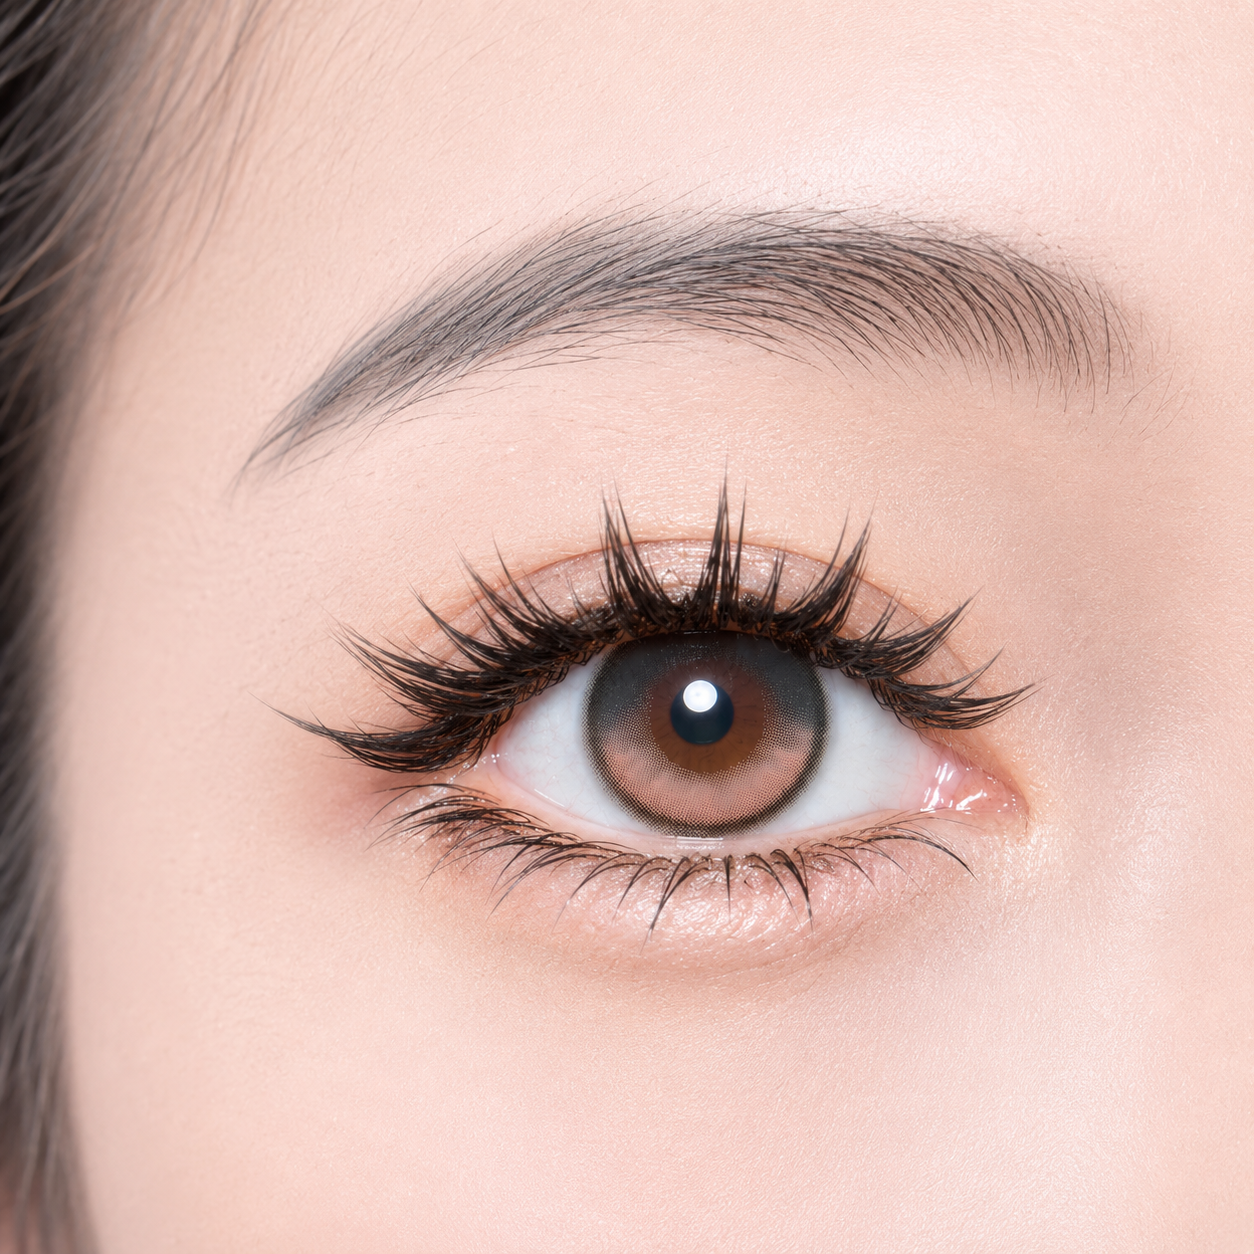
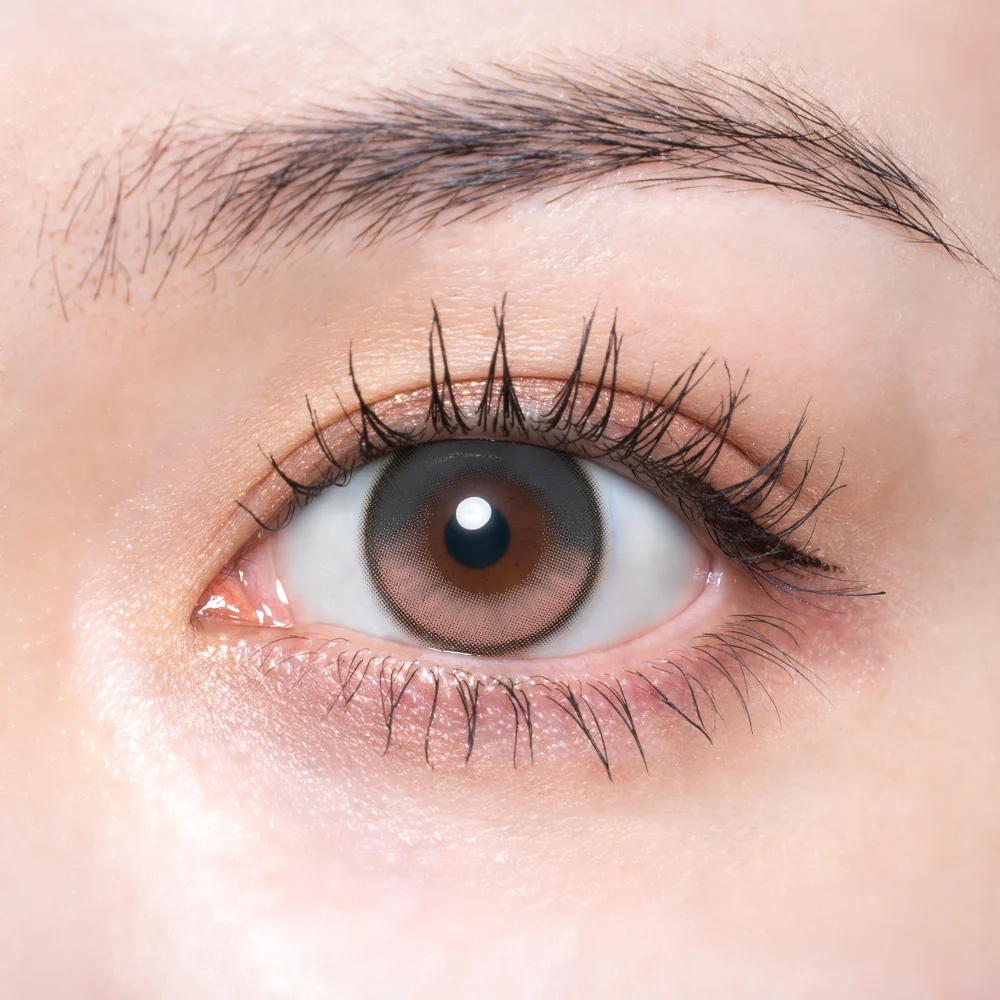
Add full product photo catalog and refine product detail modal.
Wire images for all 32 SKUs, rename Melotte Pure Poodle, and improve modal layout with grouped spec pills, larger model photo, and no scroll clipping.

diff --git a/products-data.js b/products-data.js
@@ -1,2 +1,2 @@
-const PRODUCTS = [{"id":1,"brand":"Quprié","name":"Rose Camellia","color":"pink","dia":14.5,"gdia":13.7,"axisLock":true,"price":19.99,"image":"Images/Quprie Rose Camellia no background.webp","images":["Images/Quprie Rose Camellia Model Photo.png","Images/Quprie Rose Camellia no background.webp"]},{"id":2,"brand":"Quprié","name":"Gris Onyx","color":"gray","dia":14.5,"gdia":13.7,"axisLock":true,"price":19.99,"image":"Images/Quprie Gris Onyx No Background.webp","images":["Images/Quprie Gris Onyx model picture.png","Images/Quprie Gris Onyx No Background.webp"]},{"id":3,"brand":"Primore","name":"Pri Dolly Brown","color":"brown","dia":15,"gdia":14.6,"axisLock":false,"price":19.99,"image":"Images/Primore Dolly Brown no background .png","images":["Images/Primore Dolly Brown model image.png","Images/Primore Dolly Brown no background .png"]},{"id":4,"brand":"Radiris","name":"Sweet - Mirage Bloom","color":"hazel","dia":14,"gdia":13.1,"axisLock":false,"price":19.99,"image":"Images/Radiris Sweet-Mirage Bloom no background.png","images":["Images/Radiris Sweet-Mirage Bloom model image.png","Images/Radiris Sweet-Mirage Bloom no background.png"]},{"id":5,"brand":"Radiris","name":"Sweet - Soiree Brown","color":"brown","dia":14,"gdia":13.1,"axisLock":false,"price":19.99,"image":"Images/Radiris Sweet- Soire Brown no background.png","images":["Images/Radiris Sweet-Soiree brown model image.png","Images/Radiris Sweet- Soire Brown no background.png"]},{"id":6,"brand":"It mee","name":"Gentle Ribbon Blue","color":"gray","dia":14.5,"gdia":13.8,"axisLock":false,"price":19.99,"image":"Images/It me Gentle Ribbon blue no background.png","images":["Images/It mee Gentle Ribbon Blue model image.png","Images/It me Gentle Ribbon blue no background.png"]},{"id":7,"brand":"It mee","name":"Charmy Brown","color":"brown","dia":14.5,"gdia":13.8,"axisLock":false,"price":19.99,"image":"Images/It mee charmy brown no background.png","images":["Images/It mee charmy brown model image.png","Images/It mee charmy brown no background.png"]},{"id":8,"brand":"It mee","name":"Hip Beige","color":"hazel","dia":14.5,"gdia":13.8,"axisLock":false,"price":19.99,"image":"Images/It mee Hip Beige no background.png","images":["Images/It mee Hip Beige model picture.png","Images/It mee Hip Beige no background.png"]},{"id":9,"brand":"Rom'u","name":"Love Gleam","color":"pink","dia":14.5,"gdia":13.6,"axisLock":false,"price":19.99,"image":"Images/romu love gleam no background.webp","images":["Images/Romu love gleam model image.png","Images/romu love gleam no background.webp"]},{"id":10,"brand":"Rom'u","name":"Milky Tan","color":"hazel","dia":14.5,"gdia":13.7,"axisLock":false,"price":19.99,"image":"Images/romu milky tan no background.webp","images":["Images/Romu milky tan model image.png","Images/romu milky tan no background.webp"]},{"id":11,"brand":"URIA","name":"Yurial - Earl Gray","color":"gray","dia":14.2,"gdia":12.8,"axisLock":false,"price":19.99,"image":"Images/uria yurial earl gray no background.png","images":["Images/uria yurial earl gray model image.png","Images/uria yurial earl gray no background.png"]},{"id":12,"brand":"URIA","name":"eyeis - Melo Brown","color":"hazel","dia":14.2,"gdia":13.3,"axisLock":false,"price":19.99,"image":"Images/uria eyeis melo brown no background.png","images":["Images/uria melo brown model image.jpg","Images/uria eyeis melo brown no background.png"]},{"id":13,"brand":"URIA","name":"eyeis - Ash Brown","color":"brown","dia":14.2,"gdia":13.3,"axisLock":false,"price":19.99,"image":"Images/uria ash brown no background.png","images":["Images/urial eyeis ash brown model image.jpg","Images/uria ash brown no background.png"]},{"id":14,"brand":"URIA","name":"eyeis - Essential Gray","color":"gray","dia":14.2,"gdia":13.3,"axisLock":false,"price":19.99,"image":"Images/uria essential gray no background.png","images":["Images/uria eyeis essential gray model image.jpg","Images/uria essential gray no background.png"]},{"id":15,"brand":"Prinkiss","name":"Jewel Drop","color":"hazel","dia":14.5,"gdia":13.3,"axisLock":true,"price":19.99,"image":"Images/prinkiss jewel drop no background.png","images":["Images/prinkiss jewel drop model image.png","Images/prinkiss jewel drop no background.png"]},{"id":16,"brand":"Prinkiss","name":"Rosy Kiss","color":"pink","dia":14.5,"gdia":13.3,"axisLock":true,"price":19.99,"image":"Images/prinkiss rosy kiss no background.png","images":["Images/prinkiss rosy kiss model image.png","Images/prinkiss rosy kiss no background.png"]},{"id":17,"brand":"Melotte","name":"Pure Noodle","color":"brown","dia":14.2,"gdia":13.7,"axisLock":false,"price":19.99},{"id":18,"brand":"Melotte","name":"Dear Letter","color":"hazel","dia":14.2,"gdia":13.7,"axisLock":false,"price":19.99},{"id":19,"brand":"Melotte","name":"Cry Muse","color":"blue","dia":14.2,"gdia":13,"axisLock":false,"price":19.99},{"id":20,"brand":"Chuu","name":"Lily Daze - Sun Gray","color":"gray","dia":14.2,"gdia":13,"axisLock":false,"price":19.99},{"id":21,"brand":"Chuu","name":"Lily Daze - Sun Brown","color":"brown","dia":14.2,"gdia":13,"axisLock":false,"price":19.99},{"id":22,"brand":"Chuu","name":"Milk & Tea - Cream Gray","color":"gray","dia":14.2,"gdia":13.4,"axisLock":false,"price":19.99},{"id":23,"brand":"Chuu","name":"Milk & Tea - Cream Brown","color":"brown","dia":14.2,"gdia":13.4,"axisLock":false,"price":19.99},{"id":24,"brand":"Malun Malun","name":"Lunaria Pink","color":"pink","dia":14.5,"gdia":13.8,"axisLock":true,"price":19.99},{"id":25,"brand":"Malun Malun","name":"Lunaria Gray","color":"gray","dia":14.5,"gdia":13.8,"axisLock":true,"price":19.99},{"id":26,"brand":"Malun Malun","name":"Lunaria Brown","color":"brown","dia":14.5,"gdia":13.8,"axisLock":true,"price":19.99},{"id":27,"brand":"Sie","name":"Melt me","color":"pink","dia":14.5,"gdia":13.2,"axisLock":true,"price":19.99},{"id":28,"brand":"Sie","name":"Honey Veil","color":"brown","dia":14.5,"gdia":13.2,"axisLock":true,"price":19.99},{"id":29,"brand":"Sie","name":"Milk Haze","color":"hazel","dia":14.5,"gdia":13.2,"axisLock":true,"price":19.99},{"id":30,"brand":"Olens","name":"Big Glowy- Hazel","color":"hazel","dia":14.2,"gdia":13.6,"axisLock":false,"price":19.99},{"id":31,"brand":"Olens","name":"Big Glowy - Gray","color":"gray","dia":14.2,"gdia":13.6,"axisLock":false,"price":19.99},{"id":32,"brand":"Olens","name":"Big Glowy - Mocha Brown","color":"brown","dia":14.2,"gdia":13.6,"axisLock":false,"price":19.99}];
+const PRODUCTS = [{"id":1,"brand":"Quprié","name":"Rose Camellia","color":"pink","dia":14.5,"gdia":13.7,"axisLock":true,"price":19.99,"image":"Images/Quprie Rose Camellia no background.webp","images":["Images/Quprie Rose Camellia Model Photo.png","Images/Quprie Rose Camellia no background.webp"]},{"id":2,"brand":"Quprié","name":"Gris Onyx","color":"gray","dia":14.5,"gdia":13.7,"axisLock":true,"price":19.99,"image":"Images/Quprie Gris Onyx No Background.webp","images":["Images/Quprie Gris Onyx model picture.png","Images/Quprie Gris Onyx No Background.webp"]},{"id":3,"brand":"Primore","name":"Pri Dolly Brown","color":"brown","dia":15,"gdia":14.6,"axisLock":false,"price":19.99,"image":"Images/Primore Dolly Brown no background .png","images":["Images/Primore Dolly Brown model image.png","Images/Primore Dolly Brown no background .png"]},{"id":4,"brand":"Radiris","name":"Sweet - Mirage Bloom","color":"hazel","dia":14,"gdia":13.1,"axisLock":false,"price":19.99,"image":"Images/Radiris Sweet-Mirage Bloom no background.png","images":["Images/Radiris Sweet-Mirage Bloom model image.png","Images/Radiris Sweet-Mirage Bloom no background.png"]},{"id":5,"brand":"Radiris","name":"Sweet - Soiree Brown","color":"brown","dia":14,"gdia":13.1,"axisLock":false,"price":19.99,"image":"Images/Radiris Sweet- Soire Brown no background.png","images":["Images/Radiris Sweet-Soiree brown model image.png","Images/Radiris Sweet- Soire Brown no background.png"]},{"id":6,"brand":"It mee","name":"Gentle Ribbon Blue","color":"gray","dia":14.5,"gdia":13.8,"axisLock":false,"price":19.99,"image":"Images/It me Gentle Ribbon blue no background.png","images":["Images/It mee Gentle Ribbon Blue model image.png","Images/It me Gentle Ribbon blue no background.png"]},{"id":7,"brand":"It mee","name":"Charmy Brown","color":"brown","dia":14.5,"gdia":13.8,"axisLock":false,"price":19.99,"image":"Images/It mee charmy brown no background.png","images":["Images/It mee charmy brown model image.png","Images/It mee charmy brown no background.png"]},{"id":8,"brand":"It mee","name":"Hip Beige","color":"hazel","dia":14.5,"gdia":13.8,"axisLock":false,"price":19.99,"image":"Images/It mee Hip Beige no background.png","images":["Images/It mee Hip Beige model picture.png","Images/It mee Hip Beige no background.png"]},{"id":9,"brand":"Rom'u","name":"Love Gleam","color":"pink","dia":14.5,"gdia":13.6,"axisLock":false,"price":19.99,"image":"Images/romu love gleam no background.webp","images":["Images/Romu love gleam model image.png","Images/romu love gleam no background.webp"]},{"id":10,"brand":"Rom'u","name":"Milky Tan","color":"hazel","dia":14.5,"gdia":13.7,"axisLock":false,"price":19.99,"image":"Images/romu milky tan no background.webp","images":["Images/Romu milky tan model image.png","Images/romu milky tan no background.webp"]},{"id":11,"brand":"URIA","name":"Yurial - Earl Gray","color":"gray","dia":14.2,"gdia":12.8,"axisLock":false,"price":19.99,"image":"Images/uria yurial earl gray no background.png","images":["Images/uria yurial earl gray model image.png","Images/uria yurial earl gray no background.png"]},{"id":12,"brand":"URIA","name":"eyeis - Melo Brown","color":"hazel","dia":14.2,"gdia":13.3,"axisLock":false,"price":19.99,"image":"Images/uria eyeis melo brown no background.png","images":["Images/uria melo brown model image.jpg","Images/uria eyeis melo brown no background.png"]},{"id":13,"brand":"URIA","name":"eyeis - Ash Brown","color":"brown","dia":14.2,"gdia":13.3,"axisLock":false,"price":19.99,"image":"Images/uria ash brown no background.png","images":["Images/urial eyeis ash brown model image.jpg","Images/uria ash brown no background.png"]},{"id":14,"brand":"URIA","name":"eyeis - Essential Gray","color":"gray","dia":14.2,"gdia":13.3,"axisLock":false,"price":19.99,"image":"Images/uria essential gray no background.png","images":["Images/uria eyeis essential gray model image.jpg","Images/uria essential gray no background.png"]},{"id":15,"brand":"Prinkiss","name":"Jewel Drop","color":"hazel","dia":14.5,"gdia":13.3,"axisLock":true,"price":19.99,"image":"Images/prinkiss jewel drop no background.png","images":["Images/prinkiss jewel drop model image.png","Images/prinkiss jewel drop no background.png"]},{"id":16,"brand":"Prinkiss","name":"Rosy Kiss","color":"pink","dia":14.5,"gdia":13.3,"axisLock":true,"price":19.99,"image":"Images/prinkiss rosy kiss no background.png","images":["Images/prinkiss rosy kiss model image.png","Images/prinkiss rosy kiss no background.png"]},{"id":17,"brand":"Melotte","name":"Pure Poodle","color":"brown","dia":14.2,"gdia":13.7,"axisLock":false,"price":19.99,"image":"Images/melotte pure poodle no background.webp","images":["Images/melotte pure poodle model image.png","Images/melotte pure poodle no background.webp"]},{"id":18,"brand":"Melotte","name":"Dear Letter","color":"hazel","dia":14.2,"gdia":13.7,"axisLock":false,"price":19.99,"image":"Images/melotte dear letter no background.webp","images":["Images/melotte dear letter model image.png","Images/melotte dear letter no background.webp"]},{"id":19,"brand":"Melotte","name":"Cry Muse","color":"blue","dia":14.2,"gdia":13,"axisLock":false,"price":19.99,"image":"Images/melotte cry muse no background.webp","images":["Images/melotte cry muse model image.png","Images/melotte cry muse no background.webp"]},{"id":20,"brand":"Chuu","name":"Lily Daze - Sun Gray","color":"gray","dia":14.2,"gdia":13,"axisLock":false,"price":19.99,"image":"Images/chuu lily daze sun gray no background.png","images":["Images/chuu lily daze sun gray model picture.webp","Images/chuu lily daze sun gray no background.png"]},{"id":21,"brand":"Chuu","name":"Lily Daze - Sun Brown","color":"brown","dia":14.2,"gdia":13,"axisLock":false,"price":19.99,"image":"Images/chuu lily daze sun brown no background.png","images":["Images/chuu lily daze sun brown model image.jpg","Images/chuu lily daze sun brown no background.png"]},{"id":22,"brand":"Chuu","name":"Milk & Tea - Cream Gray","color":"gray","dia":14.2,"gdia":13.4,"axisLock":false,"price":19.99,"image":"Images/chuu milk and tea cream gray no background.png","images":["Images/chuu milk and tea cream gray model image.webp","Images/chuu milk and tea cream gray no background.png"]},{"id":23,"brand":"Chuu","name":"Milk & Tea - Cream Brown","color":"brown","dia":14.2,"gdia":13.4,"axisLock":false,"price":19.99,"image":"Images/chuu milk and tea cream brown no background.png","images":["Images/chuu milk and tea cream brown model image.webp","Images/chuu milk and tea cream brown no background.png"]},{"id":24,"brand":"Malun Malun","name":"Lunaria Pink","color":"pink","dia":14.5,"gdia":13.8,"axisLock":true,"price":19.99,"image":"Images/malun malun lunaria pink no background.png","images":["Images/malun malun lunaria pink model picture.png","Images/malun malun lunaria pink no background.png"]},{"id":25,"brand":"Malun Malun","name":"Lunaria Gray","color":"gray","dia":14.5,"gdia":13.8,"axisLock":true,"price":19.99,"image":"Images/malun malun lunaria gray no background.png","images":["Images/malun malun lunaria gray model picture.png","Images/malun malun lunaria gray no background.png"]},{"id":26,"brand":"Malun Malun","name":"Lunaria Brown","color":"brown","dia":14.5,"gdia":13.8,"axisLock":true,"price":19.99,"image":"Images/malun malun lunaria brown no background.png","images":["Images/malun malun lunaria brown model picture.png","Images/malun malun lunaria brown no background.png"]},{"id":27,"brand":"Sie","name":"Melt me","color":"pink","dia":14.5,"gdia":13.2,"axisLock":true,"price":19.99,"image":"Images/Sie melt me no background.webp","images":["Images/Sie melt me model picture.webp","Images/Sie melt me no background.webp"]},{"id":28,"brand":"Sie","name":"Honey Veil","color":"brown","dia":14.5,"gdia":13.2,"axisLock":true,"price":19.99,"image":"Images/sie honey veil no background.webp","images":["Images/sie honey veil model image.webp","Images/sie honey veil no background.webp"]},{"id":29,"brand":"Sie","name":"Milk Haze","color":"hazel","dia":14.5,"gdia":13.2,"axisLock":true,"price":19.99,"image":"Images/sie milk haze no background.webp","images":["Images/sie milk haze model picture.webp","Images/sie milk haze no background.webp"]},{"id":30,"brand":"Olens","name":"Big Glowy- Hazel","color":"hazel","dia":14.2,"gdia":13.6,"axisLock":false,"price":19.99,"image":"Images/olens big glowy hazel no background.png","images":["Images/olens big glowy hazel model image.webp","Images/olens big glowy hazel no background.png"]},{"id":31,"brand":"Olens","name":"Big Glowy - Gray","color":"gray","dia":14.2,"gdia":13.6,"axisLock":false,"price":19.99,"image":"Images/olens big glowy gray no background.png","images":["Images/olens big glowy gray model image.webp","Images/olens big glowy gray no background.png"]},{"id":32,"brand":"Olens","name":"Big Glowy - Mocha Brown","color":"brown","dia":14.2,"gdia":13.6,"axisLock":false,"price":19.99,"image":"Images/olens big glow mocha brown no background.png","images":["Images/olens big glowy mocha brown model image.webp","Images/olens big glow mocha brown no background.png"]}];
 const FILTER_OPTIONS = {"brand":["Chuu","It mee","Malun Malun","Melotte","Olens","Primore","Prinkiss","Quprié","Radiris","Rom'u","Sie","URIA"],"dia":[14,14.2,14.5,15],"gdia":[12.8,13,13.1,13.2,13.3,13.4,13.6,13.7,13.8,14.6],"color":["blue","brown","gray","hazel","pink"]};

diff --git a/styles.css b/styles.css
@@ -634,8 +634,10 @@ body {
 
 .modal {
   position: relative;
-  width: 100%;
-  max-width: 420px;
+  width: 85%;
+  max-width: 85%;
+  max-height: 92vh;
+  overflow: hidden;
   padding: 36px 28px 28px;
   background: var(--surface);
   border-radius: var(--radius-lg);
@@ -678,7 +680,44 @@ body {
 }
 
 .modal.has-media {
-  max-width: 360px;
+  max-width: 85%;
+  padding: 30px 24px 24px;
+}
+
+.modal-media {
+  display: flex;
+  flex-direction: column;
+  gap: 8px;
+  margin: 0 auto 14px;
+  width: 100%;
+}
+
+.modal-image {
+  width: 100%;
+  border-radius: 12px;
+  border: 1px solid var(--border);
+  display: block;
+  object-fit: cover;
+  background: var(--anti-flash);
+}
+
+.modal-image--model {
+  width: auto;
+  max-width: 88%;
+  max-height: min(234px, 29vh);
+  margin: 0 auto;
+  object-fit: contain;
+  object-position: top center;
+  border: none;
+  background: transparent;
+}
+
+.modal-image--product {
+  object-fit: contain;
+  background: transparent;
+  border-color: transparent;
+  max-height: 130px;
+  padding: 2px 0;
 }
 
 .modal-close {
@@ -711,31 +750,6 @@ body {
   box-shadow: inset 0 0 24px rgba(255, 255, 255, 0.5), var(--shadow-sm);
 }
 
-.modal-media {
-  display: flex;
-  flex-direction: column;
-  gap: 12px;
-  margin: 0 auto 18px;
-  width: 100%;
-}
-
-.modal-image {
-  width: 100%;
-  border-radius: 12px;
-  border: 1px solid var(--border);
-  display: block;
-  object-fit: cover;
-  background: var(--anti-flash);
-}
-
-.modal-image--product {
-  object-fit: contain;
-  background: transparent;
-  border-color: transparent;
-  max-height: 140px;
-  padding: 4px 0;
-}
-
 .modal-brand {
   font-size: 0.7rem;
   font-weight: 600;
@@ -755,13 +769,21 @@ body {
 .modal-specs {
   list-style: none;
   display: flex;
-  flex-wrap: wrap;
+  flex-direction: column;
+  align-items: center;
   gap: 6px;
-  justify-content: center;
   margin-bottom: 14px;
 }
 
-.modal-specs li {
+.modal-specs-row {
+  display: flex;
+  flex-wrap: wrap;
+  justify-content: center;
+  gap: 6px;
+  list-style: none;
+}
+
+.modal-spec-pill {
   padding: 4px 10px;
   border-radius: 6px;
   background: var(--columbia-blue);
@@ -769,13 +791,11 @@ body {
   font-size: 0.78rem;
   color: var(--ming);
   font-weight: 500;
+  line-height: 1.35;
 }
 
 .modal-desc {
-  font-size: 0.88rem;
-  color: var(--text-muted);
-  margin-bottom: 14px;
-  line-height: 1.6;
+  display: none;
 }
 
 .modal-price {

diff --git a/script.js b/script.js
@@ -220,8 +220,8 @@ function setModalMedia(product) {
     mediaEl.className = 'modal-media';
     mediaEl.style.background = '';
     mediaEl.innerHTML = product.images.map((src, index) => {
-      const productShot = index > 0 ? ' modal-image--product' : '';
-      return `<img class="modal-image${productShot}" src="${encodeURI(src)}" alt="${product.name}" />`;
+      const imageType = index === 0 ? ' modal-image--model' : ' modal-image--product';
+      return `<img class="modal-image${imageType}" src="${encodeURI(src)}" alt="${product.name}" />`;
     }).join('');
     return;
   }
@@ -230,7 +230,7 @@ function setModalMedia(product) {
     modal?.classList.add('has-media');
     mediaEl.className = 'modal-media';
     mediaEl.style.background = '';
-    mediaEl.innerHTML = `<img class="modal-image" src="${encodeURI(product.image)}" alt="${product.name}" />`;
+    mediaEl.innerHTML = `<img class="modal-image modal-image--product" src="${encodeURI(product.image)}" alt="${product.name}" />`;
     return;
   }
 
@@ -632,15 +632,19 @@ function initShopPage() {
     setModalMedia(product);
     document.getElementById('modalBrand').textContent = product.brand;
     document.getElementById('modalTitle').textContent = product.name;
-    document.getElementById('modalSpecs').innerHTML = `
-      <li>1-Day Wear</li>
-      <li>0.00 Rx</li>
-      <li>DIA ${formatSpecValue(product.dia)}</li>
-      <li>GDIA ${formatSpecValue(product.gdia)}</li>
-      <li>${capitalize(product.color)}</li>
-      ${product.axisLock ? '<li>Axis-Lock</li>' : ''}
-    `;
-    document.getElementById('modalDesc').textContent = productDescription(product);
+    const specRows = [
+      ['1-Day Wear', '0.00 Rx'],
+      [`DIA ${formatSpecValue(product.dia)}`, `GDIA ${formatSpecValue(product.gdia)}`, capitalize(product.color)],
+    ];
+    if (product.axisLock) specRows.push(['Axis-Lock']);
+
+    document.getElementById('modalSpecs').innerHTML = specRows
+      .map((pills) => `
+        <li class="modal-specs-row">
+          ${pills.map((pill) => `<span class="modal-spec-pill">${pill}</span>`).join('')}
+        </li>
+      `)
+      .join('');
     document.getElementById('modalPrice').textContent = formatPrice(product.price);
 
     const modal = overlay.querySelector('.modal');
